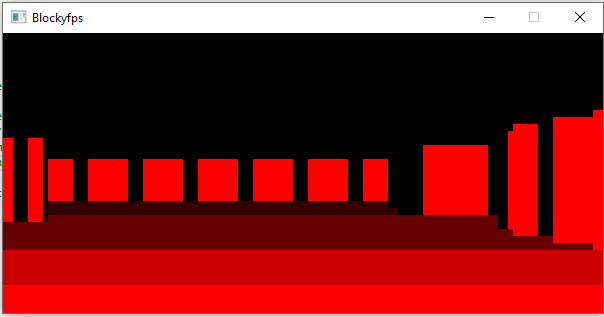
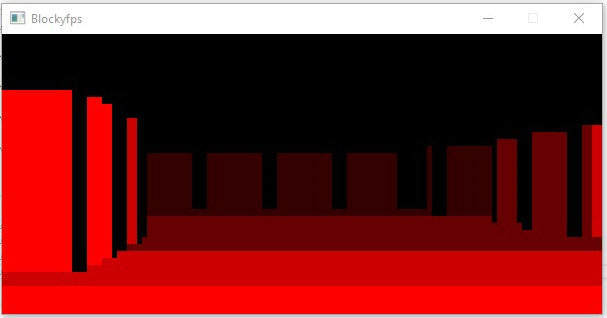
fixed shading walls by distance

Changed region(s): [[0.0, 0.0, 1.0, 0.9937]]

diff --git a/blockyfps/Source.cpp b/blockyfps/Source.cpp
@@ -1,6 +1,7 @@
 #include<SDL.h>
 #include<time.h>
 #include<chrono>
+#include<iostream>
 #include "AssetsManager.h"
 #include "InputHandler.h"
 #include "game.h"
@@ -242,14 +243,26 @@ void Game::render() {
 	for(int ny = 0; ny < nScreenHeight; ny++)
 		for (int nx = 0; nx < nScreenWidth; nx++)
 		{
-			Uint8 cr = 255;
-			if (screen[ny*nScreenWidth + nx] == '#') cr = 255;
-			if (screen[ny*nScreenWidth + nx] == 'x') cr = 204;
-			if (screen[ny*nScreenWidth + nx] == '.') cr = 102;
-			if (screen[ny*nScreenWidth + nx] == '-') cr = 51;
-			if (screen[ny*nScreenWidth + nx] == ' ') cr = 0;
+			Uint8 cr = 0, cg = 0, cb = 0;
+			if (screen[ny*nScreenWidth + nx] == '#')
+				cr = 255;
+			else if (screen[ny*nScreenWidth + nx] == 'x')
+				cr = 204;
+			else if (screen[ny*nScreenWidth + nx] == '.')
+				cr = 102;
+			else if (screen[ny*nScreenWidth + nx] == '-')
+				cr = 51;
+			else if (screen[ny*nScreenWidth + nx] == ' ')
+				cr = 0;
+			/*else
+				std::cout << (int)screen[ny*nScreenWidth + nx] << std::endl;*/
 
-			SDL_SetRenderDrawColor(g_pRenderer, cr, 0, 0, 255);
+			if (screen[ny*nScreenWidth + nx] == -120) cr = 255;
+			if (screen[ny*nScreenWidth + nx] == -109) cr = 204;
+			if (screen[ny*nScreenWidth + nx] == -110) cr = 102;
+			if (screen[ny*nScreenWidth + nx] == -111) cr = 51;
+
+			SDL_SetRenderDrawColor(g_pRenderer, cr, cg, cb, 255);
 			SDL_Rect rect;
 			rect.x = nx * blockWidth;
 			rect.y = ny * blockHeight;

diff --git a/README.md b/README.md
@@ -1,5 +1,7 @@
 # 00043sdlblockyfps
 
+![alt text](sdlblockyfps.png)
+
 FPS done with blocks. Use W,S,A,D for movement. Reworked from the code of javixd9 (https://github.com/OneLoneCoder/Javidx9/tree/master/ConsoleGameEngine/BiggerProjects/FirstPersonShooter) so i include his license: 
 
 License (OLC-3)
@@ -14,5 +16,3 @@ Redistributions or derivative works in binary form must reproduce the above copy
 Neither the name of the copyright holder nor the names of its contributors may be used to endorse or promote products derived from this software without specific prior written permission.
 
 THIS SOFTWARE IS PROVIDED BY THE COPYRIGHT HOLDERS AND CONTRIBUTORS "AS IS" AND ANY EXPRESS OR IMPLIED WARRANTIES, INCLUDING, BUT NOT LIMITED TO, THE IMPLIED WARRANTIES OF MERCHANTABILITY AND FITNESS FOR A PARTICULAR PURPOSE ARE DISCLAIMED. IN NO EVENT SHALL THE COPYRIGHT HOLDER OR CONTRIBUTORS BE LIABLE FOR ANY DIRECT, INDIRECT, INCIDENTAL, SPECIAL, EXEMPLARY, OR CONSEQUENTIAL DAMAGES (INCLUDING, BUT NOT LIMITED TO, PROCUREMENT OF SUBSTITUTE GOODS OR SERVICES; LOSS OF USE, DATA, OR PROFITS; OR BUSINESS INTERRUPTION) HOWEVER CAUSED AND ON ANY THEORY OF LIABILITY, WHETHER IN CONTRACT, STRICT LIABILITY, OR TORT (INCLUDING NEGLIGENCE OR OTHERWISE) ARISING IN ANY WAY OUT OF THE USE OF THIS SOFTWARE, EVEN IF ADVISED OF THE POSSIBILITY OF SUCH DAMAGE.
-
-![alt text](sdlblockyfps.png)
